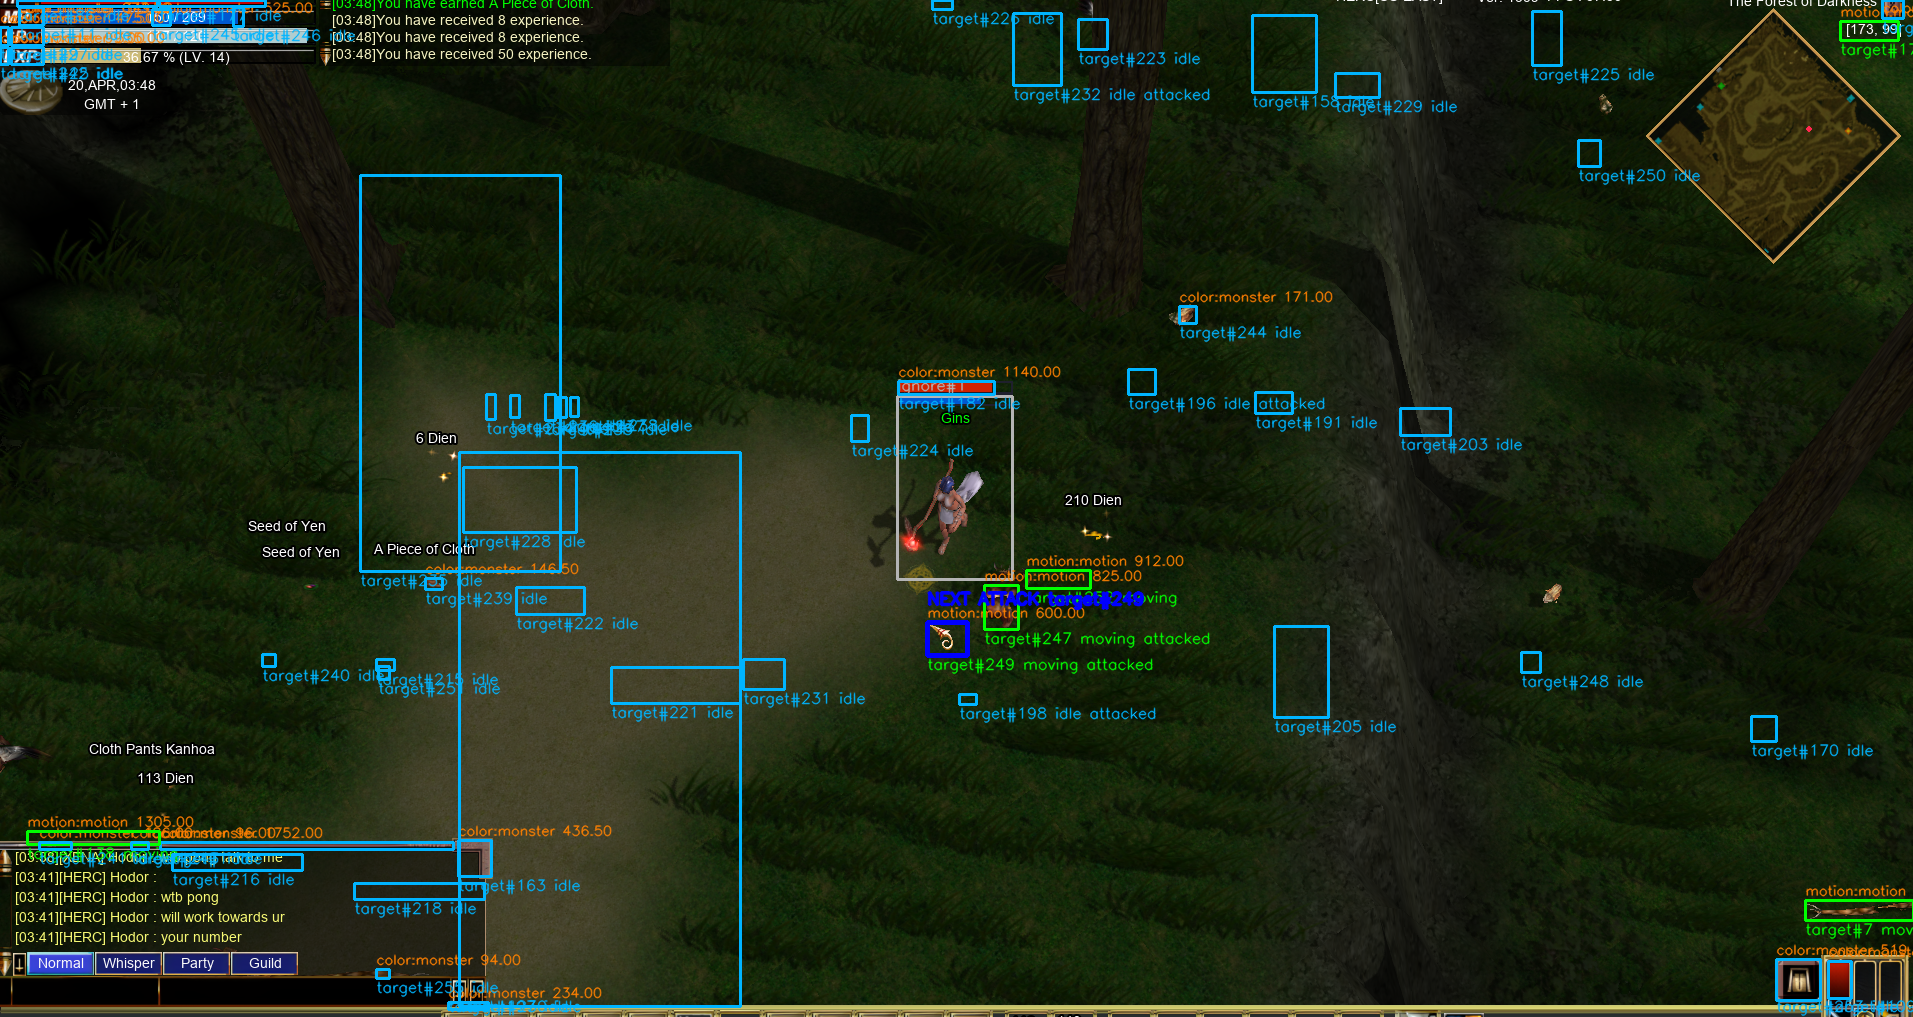
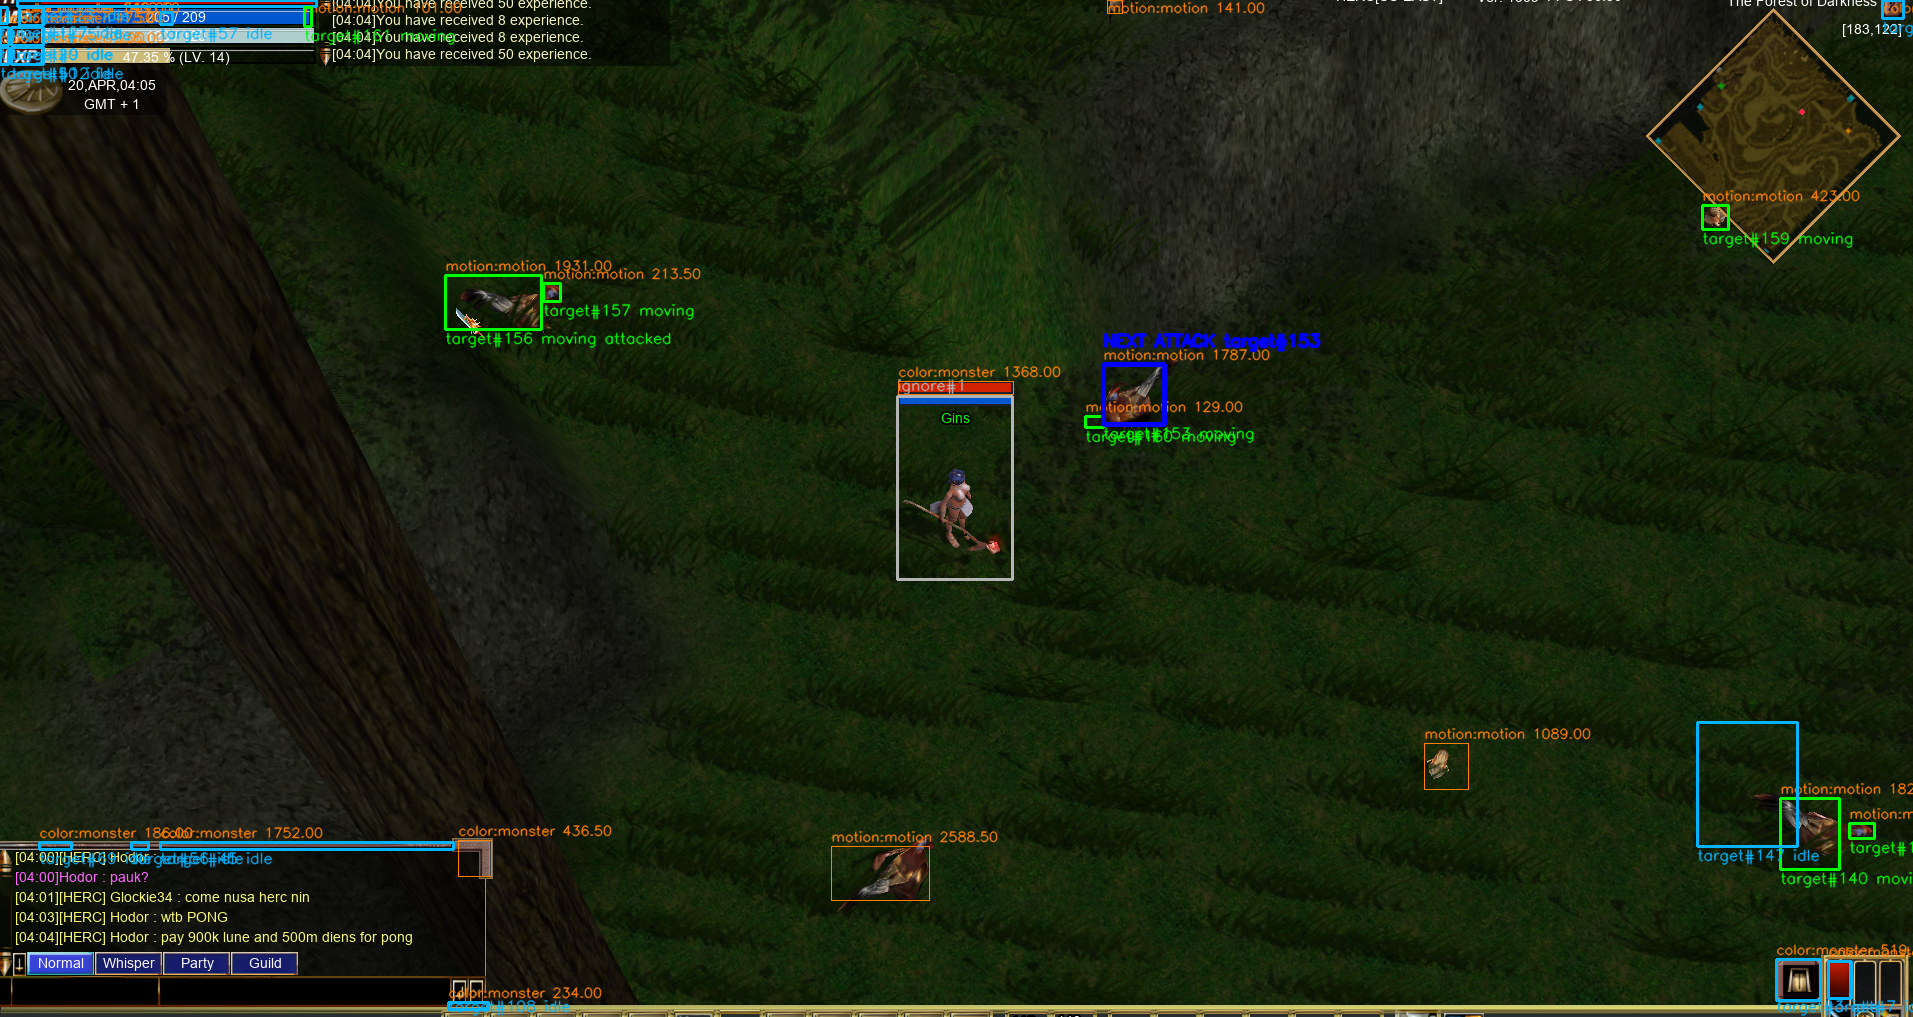
Add cursor validated targeting checkpoint

diff --git a/ocr-stat-watcher/AutoTargeting/attacker.py b/ocr-stat-watcher/AutoTargeting/attacker.py
@@ -1,30 +1,96 @@
+from dataclasses import dataclass
 import time
 
 import pyautogui
 
 from AutoTargeting.config import CONFIG
+from AutoTargeting.cursor_validator import CursorValidationResult, CursorValidator
 from AutoTargeting.tracker import TrackedTarget
+
+
+@dataclass(frozen=True)
+class AttackResult:
+    clicked: bool
+    screen_position: tuple[int, int] | None
+    clicks_sent: int
+    cursor_validation: CursorValidationResult | None
+    reason: str
 
 
 class MouseAttacker:
     def __init__(self) -> None:
         self._last_click_at = 0.0
+        self._cooldown_until = 0.0
+        self._cursor_validator = CursorValidator()
         pyautogui.PAUSE = 0
 
     def can_click(self) -> bool:
-        return time.monotonic() - self._last_click_at >= CONFIG.attack_click_cooldown_seconds
+        now = time.monotonic()
+        return (
+            now >= self._cooldown_until
+            and now - self._last_click_at >= CONFIG.attack_click_cooldown_seconds
+        )
 
-    def right_click_target(self, target: TrackedTarget) -> tuple[int, int] | None:
+    @property
+    def cursor_template_count(self) -> int:
+        return self._cursor_validator.template_count
+
+    def right_click_target(self, target: TrackedTarget) -> AttackResult:
         if not CONFIG.attack_enabled or not self.can_click():
-            return None
+            return AttackResult(False, None, 0, None, "cooldown_or_disabled")
 
-        screen_x, screen_y = target_screen_center(target)
-        pyautogui.click(x=screen_x, y=screen_y, button=CONFIG.attack_button)
+        if CONFIG.cursor_validation_enabled and self.cursor_template_count == 0:
+            return AttackResult(False, None, 0, None, "missing_cursor_templates")
+
+        validation = None
+        for screen_x, screen_y in target_screen_points(target):
+            pyautogui.moveTo(screen_x, screen_y)
+            time.sleep(CONFIG.cursor_hover_seconds)
+            validation = self._cursor_validator.validate_at(screen_x, screen_y)
+            if validation.matched:
+                return self._click_validated_point(screen_x, screen_y, validation)
+
         self._last_click_at = time.monotonic()
-        return screen_x, screen_y
+        return AttackResult(False, None, 0, validation, "cursor_not_validated")
+
+    def _click_validated_point(
+        self,
+        screen_x: int,
+        screen_y: int,
+        validation: CursorValidationResult,
+    ) -> AttackResult:
+        clicks_sent = max(1, CONFIG.attack_repeat_clicks)
+        for click_index in range(clicks_sent):
+            pyautogui.click(x=screen_x, y=screen_y, button=CONFIG.attack_button)
+            if click_index < clicks_sent - 1:
+                time.sleep(CONFIG.attack_repeat_interval_seconds)
+        self._last_click_at = time.monotonic()
+        self._cooldown_until = self._last_click_at + CONFIG.attack_success_pause_seconds
+        return AttackResult(True, (screen_x, screen_y), clicks_sent, validation, "clicked")
 
 
 def target_screen_center(target: TrackedTarget) -> tuple[int, int]:
     region_left, region_top, _, _ = CONFIG.combat_region
     target_x, target_y = target.center
     return int(region_left + target_x), int(region_top + target_y)
+
+
+def target_screen_points(target: TrackedTarget) -> list[tuple[int, int]]:
+    region_left, region_top, _, _ = CONFIG.combat_region
+    points = [
+        target.center,
+        (target.x + target.width * 0.50, target.y + target.height * 0.35),
+        (target.x + target.width * 0.50, target.y + target.height * 0.65),
+        (target.x + target.width * 0.35, target.y + target.height * 0.50),
+        (target.x + target.width * 0.65, target.y + target.height * 0.50),
+    ]
+
+    unique_points = []
+    seen = set()
+    for x, y in points:
+        screen_point = (int(region_left + x), int(region_top + y))
+        if screen_point in seen:
+            continue
+        seen.add(screen_point)
+        unique_points.append(screen_point)
+    return unique_points

diff --git a/ocr-stat-watcher/AutoTargeting/cursor_validator.py b/ocr-stat-watcher/AutoTargeting/cursor_validator.py
@@ -1,0 +1,105 @@
+from dataclasses import dataclass
+from pathlib import Path
+
+import cv2
+import mss
+import numpy as np
+
+from AutoTargeting.config import CONFIG
+
+
+@dataclass(frozen=True)
+class CursorValidationResult:
+    matched: bool
+    score: float
+    label: str | None
+    crop_path: Path
+
+
+class CursorValidator:
+    def __init__(self) -> None:
+        CONFIG.cursor_templates_dir.mkdir(parents=True, exist_ok=True)
+        self._templates = _load_cursor_templates()
+        self._sct = mss.mss()
+
+    @property
+    def template_count(self) -> int:
+        return len(self._templates)
+
+    def validate_at(self, screen_x: int, screen_y: int) -> CursorValidationResult:
+        crop = self._capture_crop(screen_x, screen_y)
+        CONFIG.debug_dir.mkdir(parents=True, exist_ok=True)
+        crop_path = CONFIG.debug_dir / "latest_cursor_crop.png"
+        cv2.imwrite(str(crop_path), crop)
+
+        if not CONFIG.cursor_validation_enabled:
+            return CursorValidationResult(True, 1.0, "disabled", crop_path)
+
+        best_score = 0.0
+        best_label = None
+        for label, template in self._templates:
+            score = _best_match_score(crop, template)
+            if score > best_score:
+                best_score = score
+                best_label = label
+
+        return CursorValidationResult(
+            matched=best_score >= CONFIG.cursor_validation_confidence,
+            score=best_score,
+            label=best_label,
+            crop_path=crop_path,
+        )
+
+    def _capture_crop(self, screen_x: int, screen_y: int) -> np.ndarray:
+        size = CONFIG.cursor_validation_crop_size
+        half = size // 2
+        monitor = {
+            "left": max(0, int(screen_x - half)),
+            "top": max(0, int(screen_y - half)),
+            "width": size,
+            "height": size,
+        }
+        image = np.array(self._sct.grab(monitor))
+        return cv2.cvtColor(image, cv2.COLOR_BGRA2BGR)
+
+
+def _load_cursor_templates() -> list[tuple[str, np.ndarray]]:
+    templates = []
+    for path in sorted(CONFIG.cursor_templates_dir.iterdir()):
+        if not path.is_file() or path.suffix.lower() not in CONFIG.template_extensions:
+            continue
+        image = cv2.imread(str(path), cv2.IMREAD_UNCHANGED)
+        if image is None:
+            continue
+        if image.ndim == 3 and image.shape[2] == 4:
+            alpha = image[:, :, 3]
+            rgb = cv2.cvtColor(image[:, :, :3], cv2.COLOR_BGR2RGB)
+            image = cv2.cvtColor(_trim_transparent_border(rgb, alpha), cv2.COLOR_RGB2BGR)
+        templates.append((path.stem, image))
+    return templates
+
+
+def _trim_transparent_border(rgb: np.ndarray, alpha: np.ndarray) -> np.ndarray:
+    rows, cols = np.where(alpha > 0)
+    if len(rows) == 0 or len(cols) == 0:
+        return rgb
+    top, bottom = int(rows.min()), int(rows.max()) + 1
+    left, right = int(cols.min()), int(cols.max()) + 1
+    return rgb[top:bottom, left:right]
+
+
+def _best_match_score(crop: np.ndarray, template: np.ndarray) -> float:
+    crop_gray = cv2.cvtColor(crop, cv2.COLOR_BGR2GRAY)
+    template_gray = cv2.cvtColor(template, cv2.COLOR_BGR2GRAY)
+
+    best_score = 0.0
+    for scale in (0.80, 0.90, 1.00, 1.10, 1.20):
+        width = max(4, int(template_gray.shape[1] * scale))
+        height = max(4, int(template_gray.shape[0] * scale))
+        if width > crop_gray.shape[1] or height > crop_gray.shape[0]:
+            continue
+        scaled = cv2.resize(template_gray, (width, height), interpolation=cv2.INTER_AREA)
+        result = cv2.matchTemplate(crop_gray, scaled, cv2.TM_CCOEFF_NORMED)
+        _, max_value, _, _ = cv2.minMaxLoc(result)
+        best_score = max(best_score, float(max_value))
+    return best_score

diff --git a/ocr-stat-watcher/AutoTargeting/runner.py b/ocr-stat-watcher/AutoTargeting/runner.py
@@ -27,7 +27,9 @@ def main() -> None:
     print(f"AutoTargeting {mode}. Press Ctrl+C to stop.")
     print(f"Combat region: {CONFIG.combat_region}")
     print(f"Template folder: {CONFIG.images_dir}")
+    print(f"Cursor template folder: {CONFIG.cursor_templates_dir}")
     print(f"Loaded templates: {len(templates)}")
+    print(f"Loaded cursor templates: {attacker.cursor_template_count}")
     print(f"Debug overlay: {CONFIG.debug_dir / 'latest_overlay.png'}")
 
     try:
@@ -57,15 +59,31 @@ def main() -> None:
             selected_target = select_attack_target(targets)
             clicked_at = None
             if selected_target is not None and pending_attack_target_id is None:
-                clicked_at = attacker.right_click_target(selected_target)
-                if clicked_at is not None:
+                attack_result = attacker.right_click_target(selected_target)
+                clicked_at = attack_result.screen_position
+                if attack_result.clicked and clicked_at is not None:
                     tracker.mark_attacked(selected_target.id)
                     pending_attack_target_id = selected_target.id
                     pending_attack_started_at = now
                     pending_player_activity = False
                     print(
                         f"ATTACK: right-clicked target#{selected_target.id} "
-                        f"at screen={clicked_at}"
+                        f"{attack_result.clicks_sent}x at screen={clicked_at} "
+                        f"cursor={attack_result.cursor_validation.label if attack_result.cursor_validation else None} "
+                        f"score={attack_result.cursor_validation.score if attack_result.cursor_validation else 0:.2f}"
+                    )
+                elif attack_result.reason == "missing_cursor_templates":
+                    print(
+                        "SKIP: cursor validation is enabled, but no cursor templates were found in "
+                        f"{CONFIG.cursor_templates_dir}"
+                    )
+                elif attack_result.reason == "cursor_not_validated":
+                    tracker.reject_target(selected_target.id)
+                    validation = attack_result.cursor_validation
+                    print(
+                        f"REJECTED: target#{selected_target.id} did not show attack cursor "
+                        f"score={validation.score if validation else 0:.2f} "
+                        f"crop={validation.crop_path if validation else None}"
                     )
             save_debug_images(frame, candidates, targets, selected_target)
 

diff --git a/ocr-stat-watcher/AutoTargeting/config.py b/ocr-stat-watcher/AutoTargeting/config.py
@@ -12,6 +12,7 @@ class AutoTargetingConfig:
     # Regions are relative to the captured combat frame: x, y, width, height.
     ignore_regions: tuple[tuple[int, int, int, int], ...] = ((897, 396, 115, 183),)
     images_dir: Path = ROOT_DIR / "images"
+    cursor_templates_dir: Path = ROOT_DIR / "cursor_templates"
     debug_dir: Path = ROOT_DIR / "debug"
     template_extensions: tuple[str, ...] = (".png", ".jpg", ".jpeg", ".bmp")
     template_confidence: float = 0.72
@@ -35,7 +36,14 @@ class AutoTargetingConfig:
     attack_enabled: bool = True
     attack_button: str = "right"
     attack_click_cooldown_seconds: float = 1.00
+    attack_repeat_clicks: int = 4
+    attack_repeat_interval_seconds: float = 0.55
+    attack_success_pause_seconds: float = 3.5
     attack_confirm_window_seconds: float = 1.0
+    cursor_validation_enabled: bool = True
+    cursor_validation_confidence: float = 0.62
+    cursor_validation_crop_size: int = 72
+    cursor_hover_seconds: float = 0.08
     player_activity_threshold: int = 18
     player_activity_min_pixels: int = 80
     rejected_target_cooldown_seconds: float = 20.0

diff --git a/ocr-stat-watcher/AutoTargeting/README.md b/ocr-stat-watcher/AutoTargeting/README.md
@@ -13,8 +13,10 @@ python -m AutoTargeting.runner
 ## Folders
 
 - `images/`: put monster/object template images here.
+- `cursor_templates/`: put attack-cursor PNGs here, for example `attack_cursor.png`.
 - `debug/latest_raw.png`: latest captured combat region.
 - `debug/latest_overlay.png`: latest capture with candidate boxes drawn.
+- `debug/latest_cursor_crop.png`: latest small crop used for attack-cursor validation.
 
 ## Current Behavior
 
@@ -30,7 +32,9 @@ python -m AutoTargeting.runner
 - Allows color/template-matched targets to be attacked while idle, since a stationary monster can still be valid.
 - Ignores attack targets farther than the configured player threat radius.
 - Prioritizes moving targets near the player over far-away template matches.
-- Right-clicks the selected target's center when attack mode is enabled.
+- Hovers candidate points and checks for an attack cursor before clicking.
+- Right-clicks a validated point multiple times when attack mode is enabled.
+- Waits for `attack_success_pause_seconds` after a validated attack burst before trying another attack.
 - Green target boxes are moving, amber target boxes are remembered but currently idle, and gray is reserved for attacked targets that stopped moving.
 - After a right-click, the target is marked as attacked so the same target ID is not clicked again.
 - If the player character area does not show movement/attack animation shortly after a right-click, nearby targets around that clicked spot are rejected for a while.
@@ -39,3 +43,5 @@ python -m AutoTargeting.runner
 ## Notes
 
 Set `attack_enabled` in `AutoTargeting/config.py` to switch between visual-only targeting and mouse attack mode.
+
+Add your cursor PNGs to `AutoTargeting/cursor_templates`. The transparent/no-background cursor image is usually the better first template, but you can add both versions and the validator will try all PNG/JPG/BMP files in the folder.
